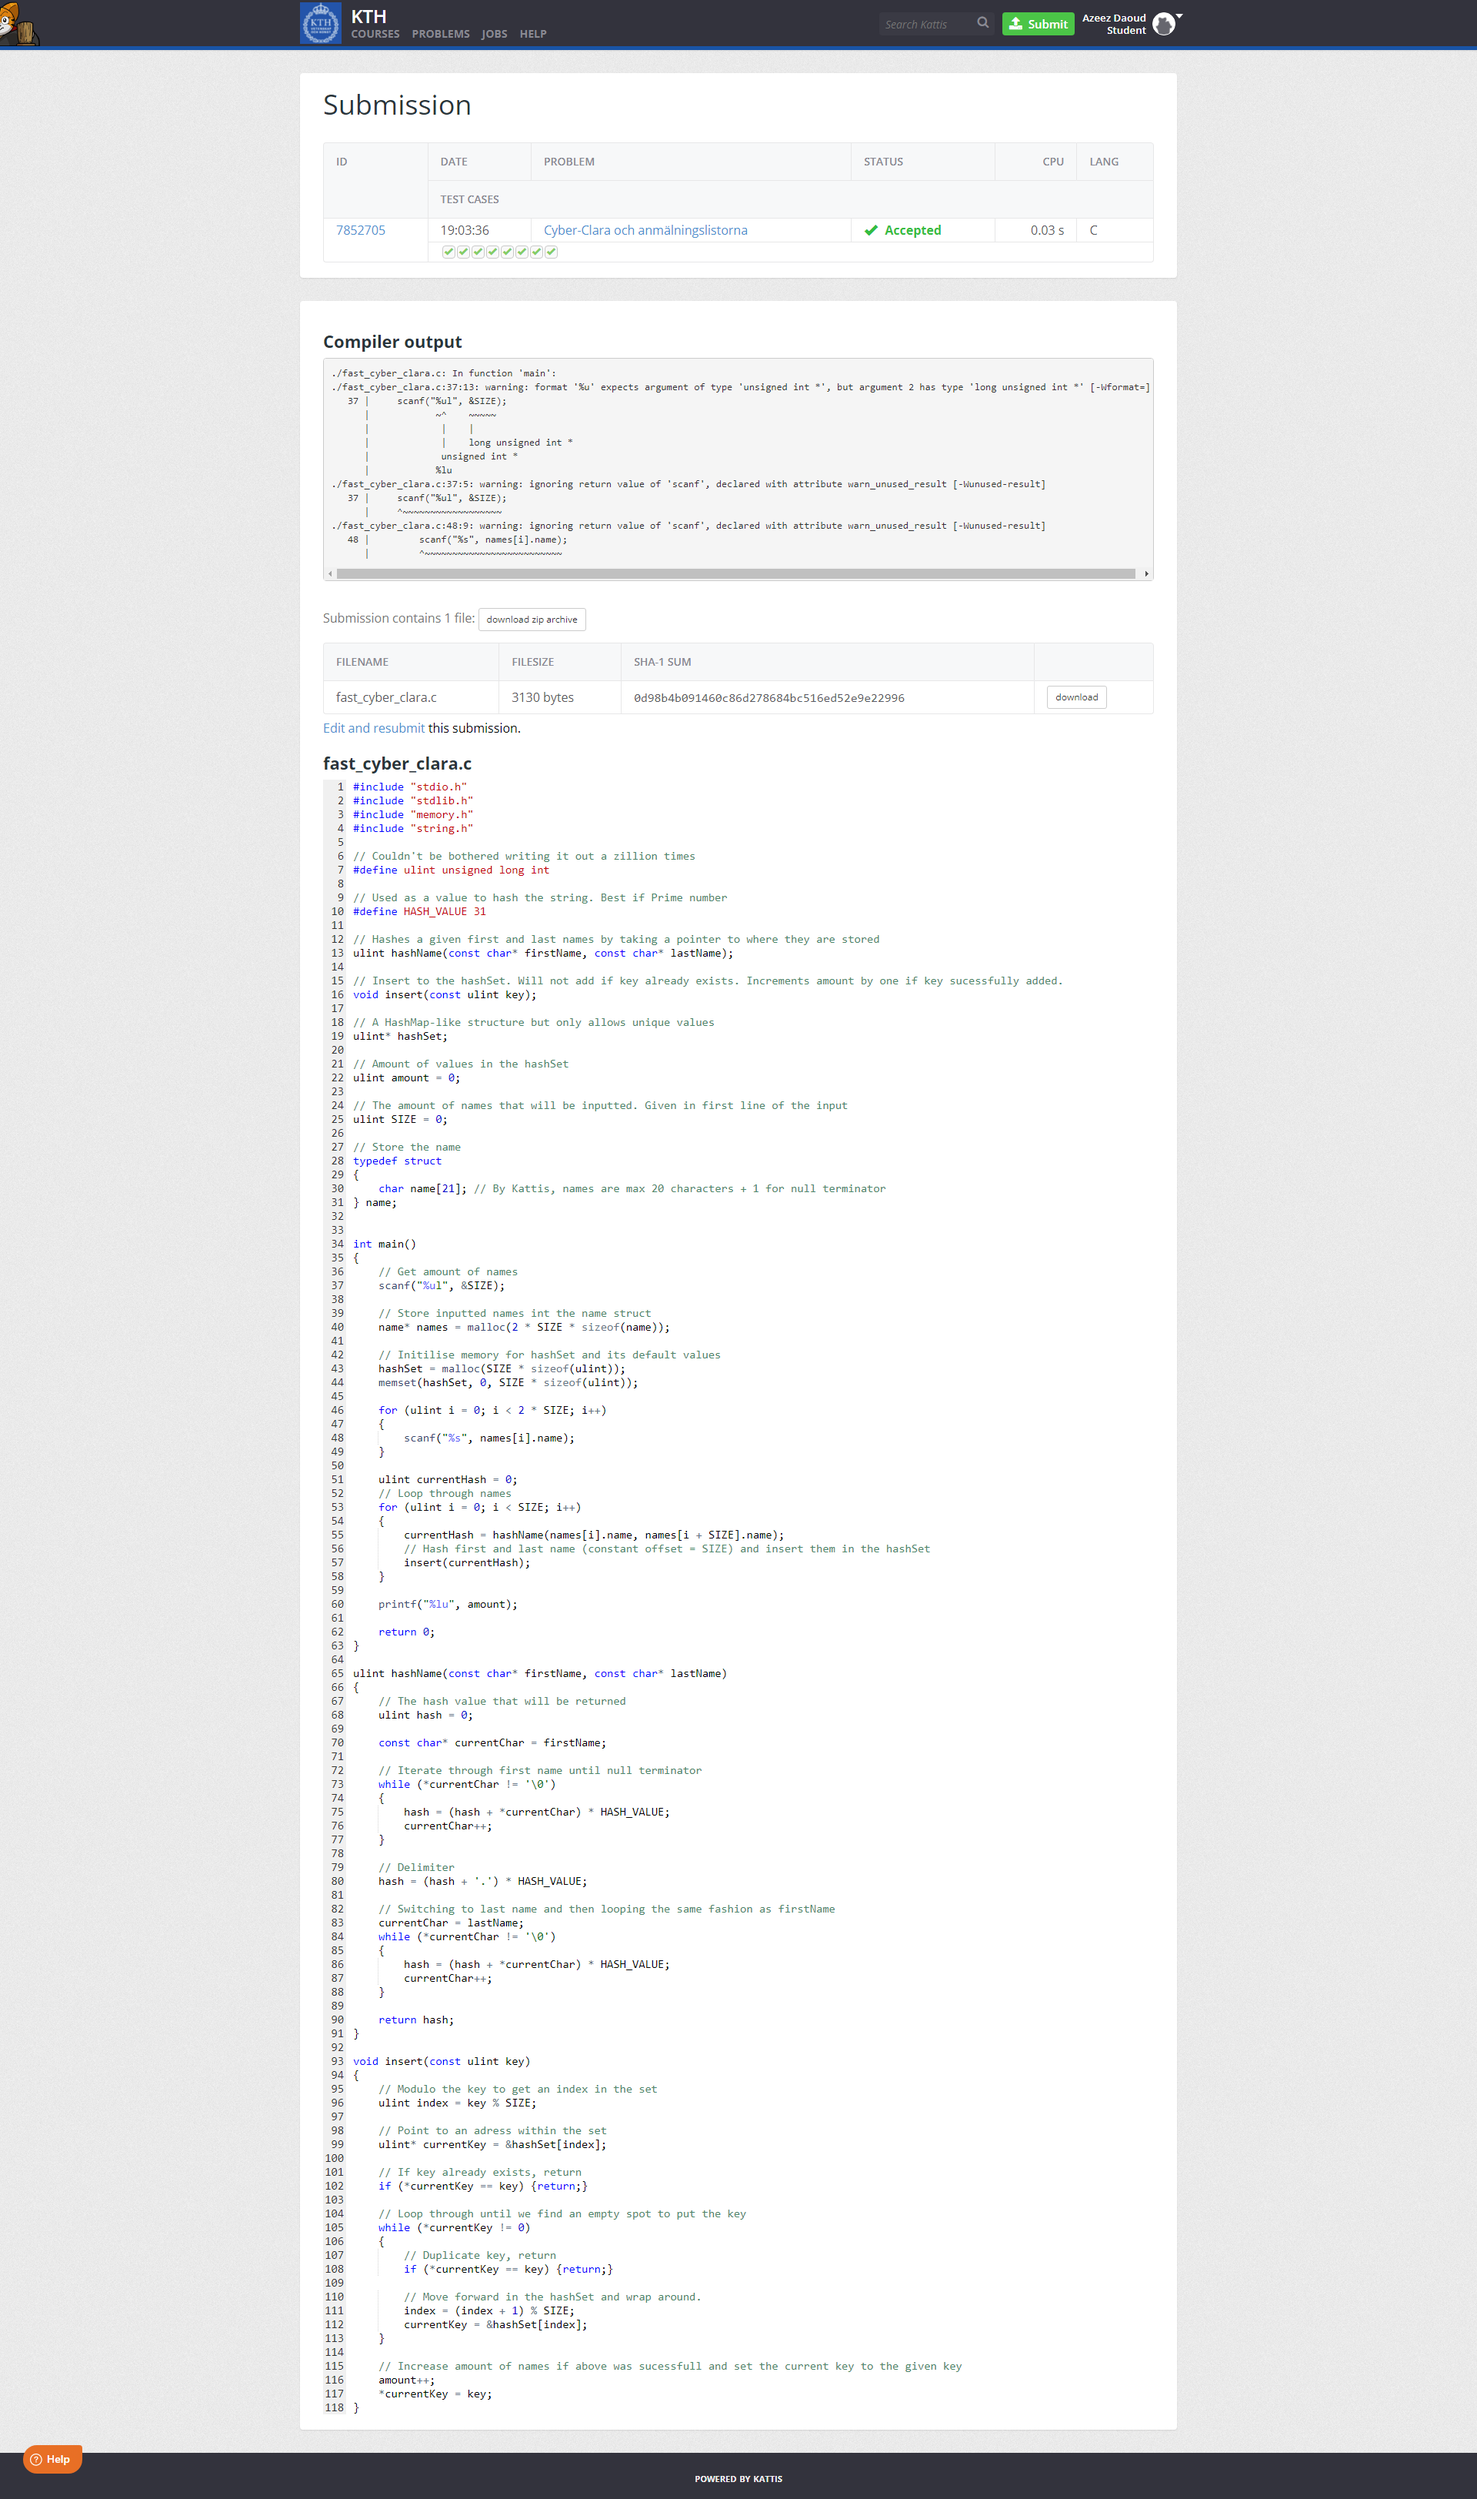
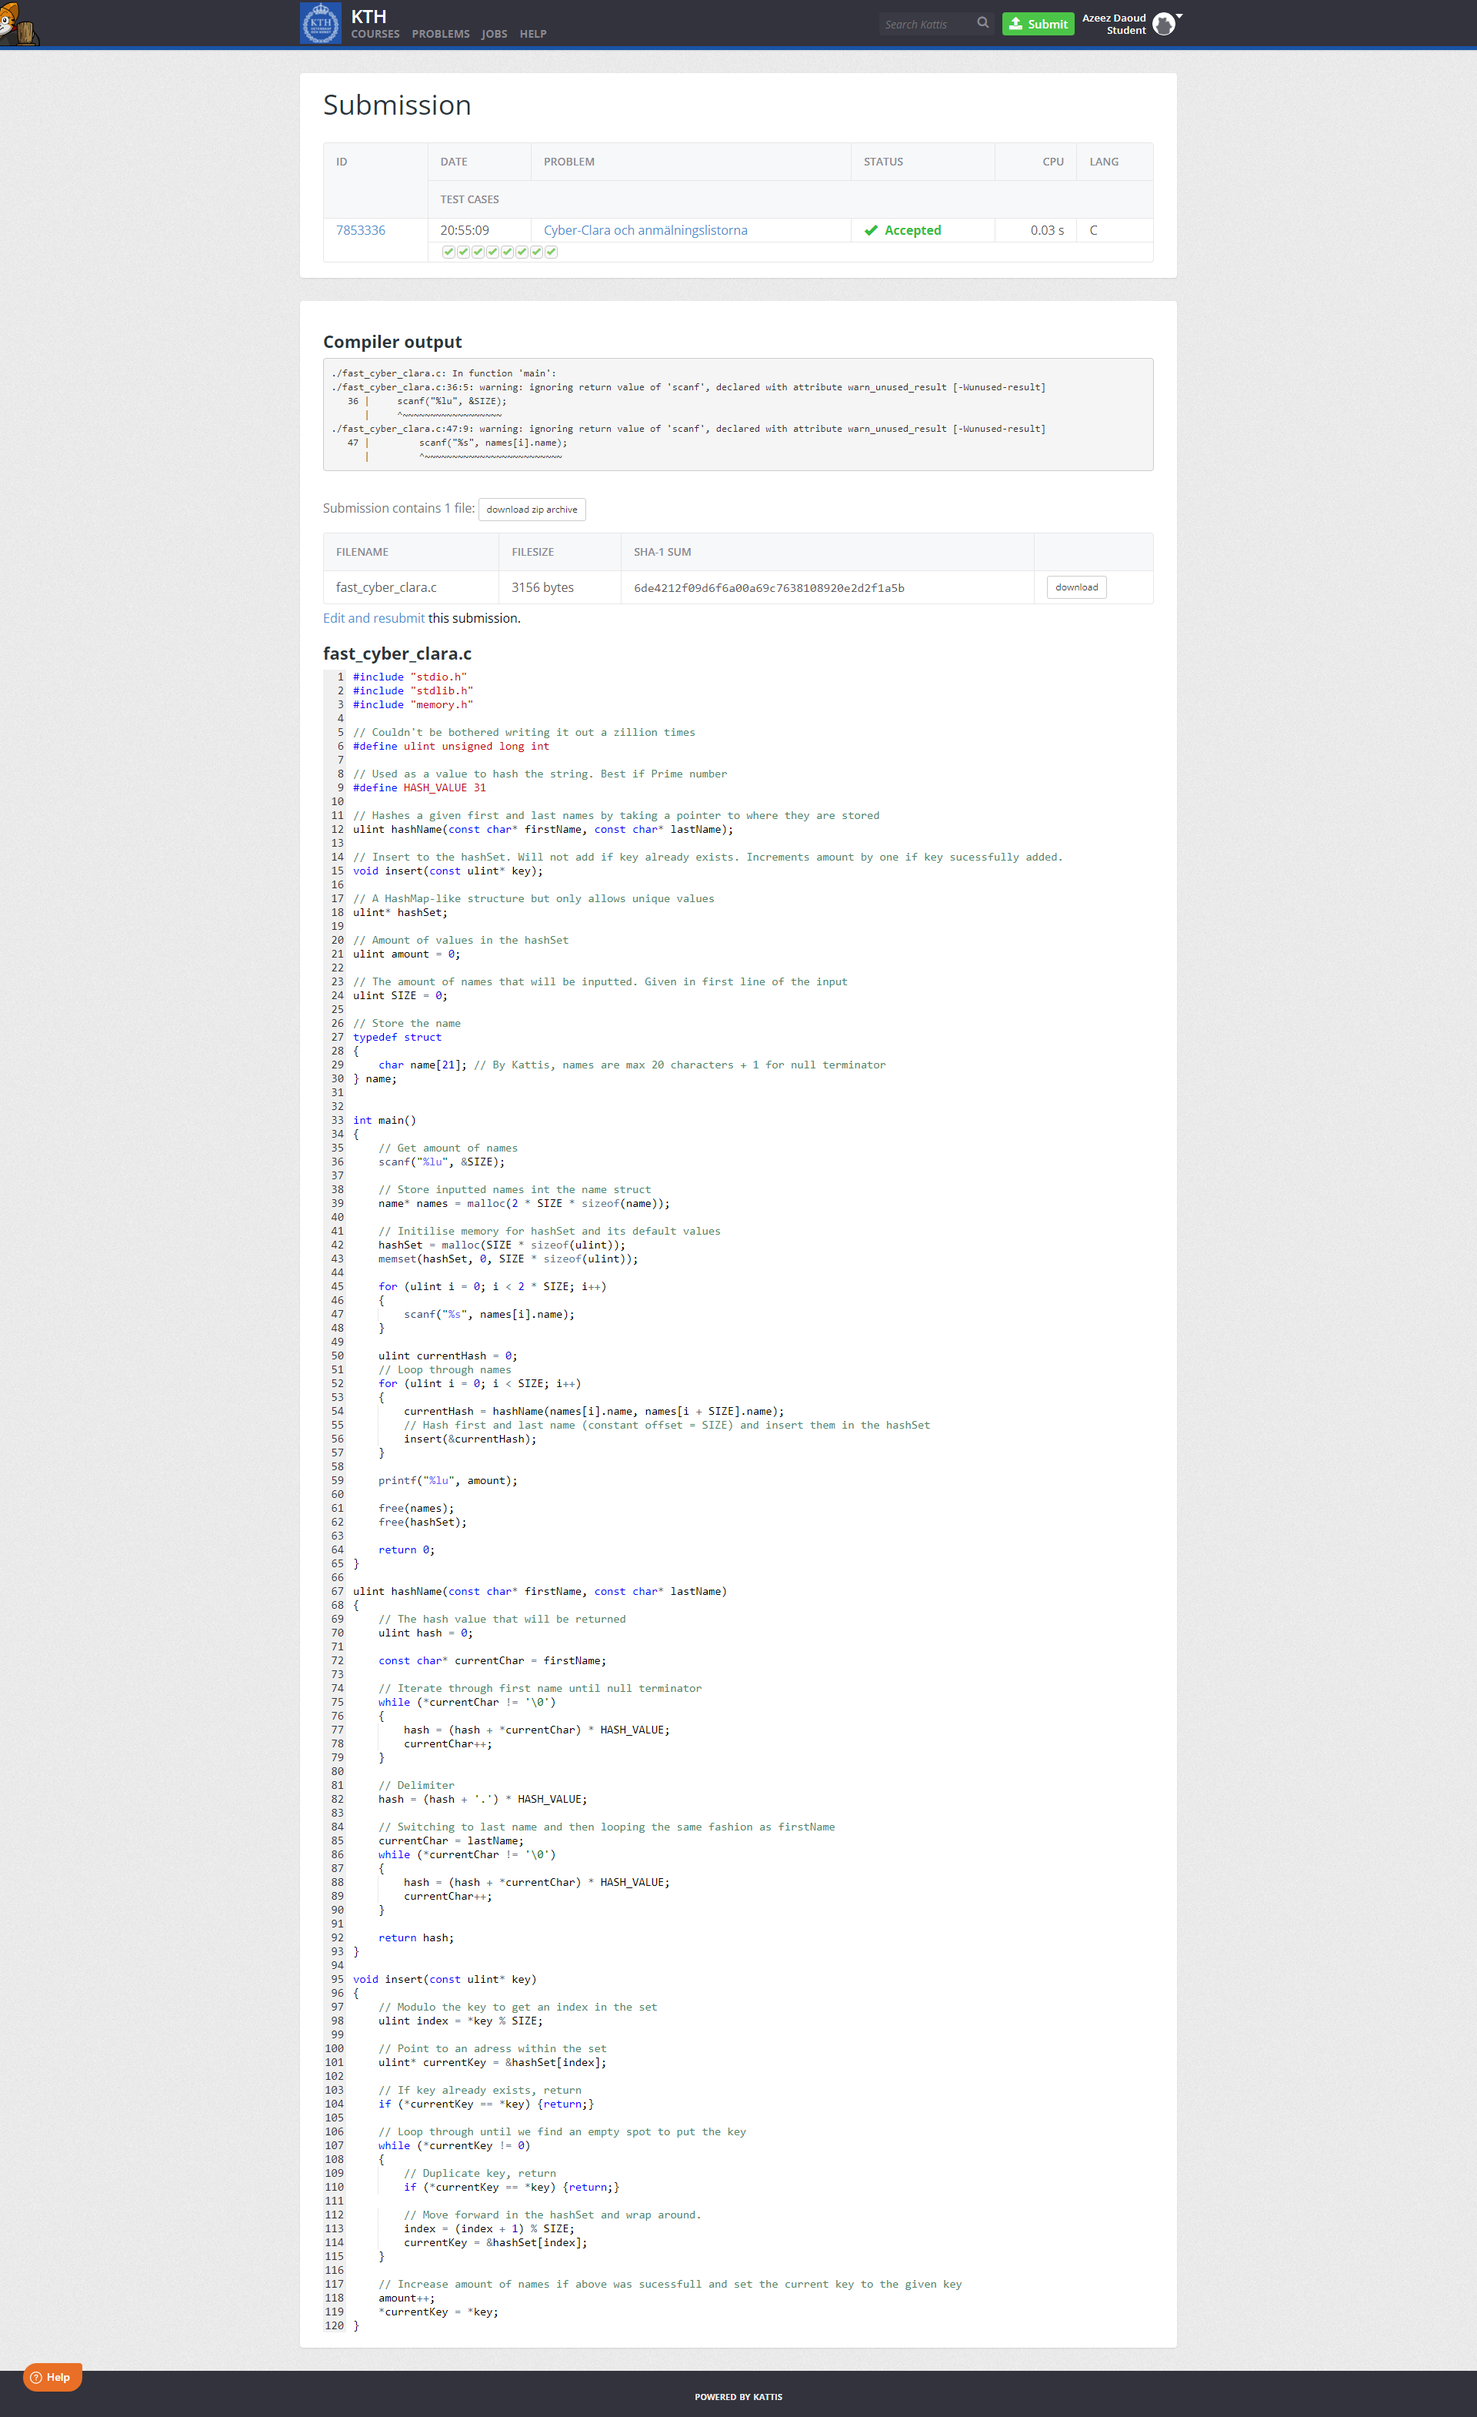
Make code more beautiful (kind of) - Make insert function take a pointer - Fix typo in scanf - Free memory used

diff --git a/fast_cyber_clara/fast_cyber_clara.c b/fast_cyber_clara/fast_cyber_clara.c
@@ -12,7 +12,7 @@
 ulint hashName(const char* firstName, const char* lastName);
 
 // Insert to the hashSet. Will not add if key already exists. Increments amount by one if key sucessfully added.
-void insert(const ulint key);
+void insert(const ulint* key);
 
 // A HashMap-like structure but only allows unique values
 ulint* hashSet;
@@ -33,7 +33,7 @@ typedef struct
 int main()
 {
     // Get amount of names
-    scanf("%ul", &SIZE);
+    scanf("%lu", &SIZE);
 
     // Store inputted names int the name struct
     name* names = malloc(2 * SIZE * sizeof(name));
@@ -53,11 +53,14 @@ int main()
     {   
         currentHash = hashName(names[i].name, names[i + SIZE].name);
         // Hash first and last name (constant offset = SIZE) and insert them in the hashSet
-        insert(currentHash);
+        insert(&currentHash);
     }
 
     printf("%lu", amount);
     
+    free(names);
+    free(hashSet);
+
     return 0;
 }
 
@@ -89,22 +92,22 @@ ulint hashName(const char* firstName, const char* lastName)
     return hash;
 }
 
-void insert(const ulint key)
+void insert(const ulint* key)
 {
     // Modulo the key to get an index in the set
-    ulint index = key % SIZE;
+    ulint index = *key % SIZE;
 
     // Point to an adress within the set
     ulint* currentKey = &hashSet[index];
 
     // If key already exists, return
-    if (*currentKey == key) {return;}
+    if (*currentKey == *key) {return;}
 
     // Loop through until we find an empty spot to put the key
     while (*currentKey != 0)
     {
         // Duplicate key, return
-        if (*currentKey == key) {return;}
+        if (*currentKey == *key) {return;}
 
         // Move forward in the hashSet and wrap around.
         index = (index + 1) % SIZE;
@@ -113,5 +116,5 @@ void insert(const ulint key)
 
     // Increase amount of names if above was sucessfull and set the current key to the given key
     amount++;
-    *currentKey = key;
+    *currentKey = *key;
 }
